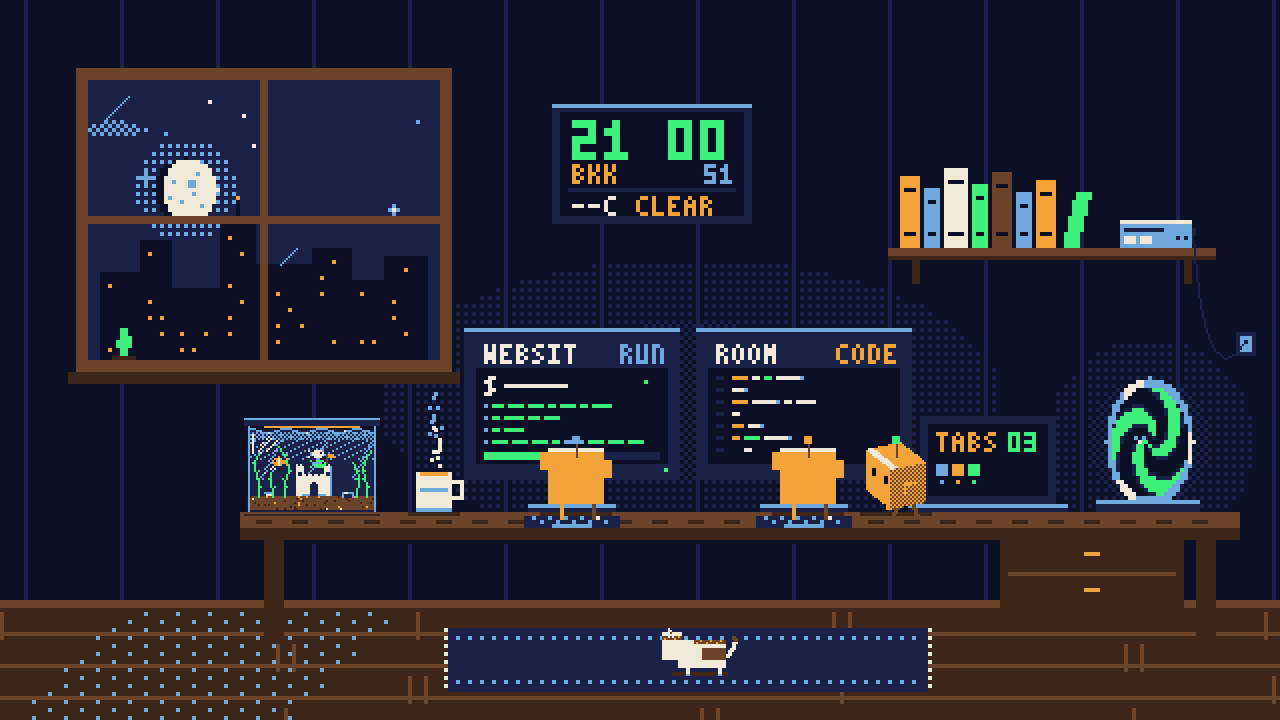
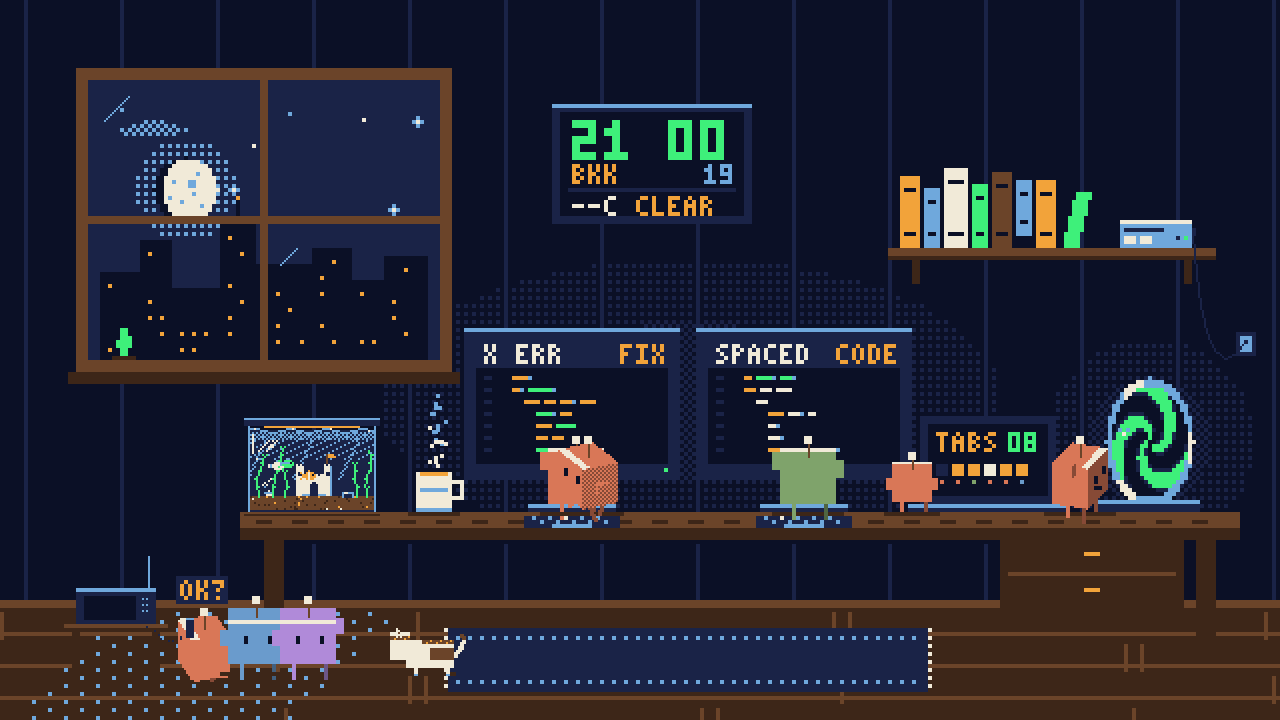
Model colours, the intercom, and tracker fixes
Room:
- Agents are coloured by model (Opus orange, Sonnet blue, Haiku green,
  Fable purple, others grey), with darker shaded sides
- New intercom by the window: a session that needs approval or asks a
  question sends its Claude there to sit with the handset and ask
  "OK?"; the beacon flashes, the screen shows ASK, others queue, and
  tapping it shows the question
- Agent/Task calls send the Claude to the portal to call its helper
- App window opens at 720x620: the room on top, the sessions below

Tracker:
- AskUserQuestion and ExitPlanMode mark a session as waiting at once
- The first question shows as the step ("Asking you a question: ...")
- Steps of a waiting session read in the present tense
- Transcript lines with spaced JSON are no longer skipped
- Room for 8 sessions instead of 6

Claude-Session: https://claude.ai/code/session_01AjpQfDJWPH5b9NssVJhddf

diff --git a/workspace.html b/workspace.html
@@ -173,7 +173,6 @@ function shortName(str, max) {
 const TILT = 0.4; // the camera looks a little down, so top faces show
 const LIGHT = [-0.3, 0.8, 0.5].map(v => v / Math.hypot(0.3, 0.8, 0.5));
 const MAT = {
-  claude: { spark: C.amber, lit: C.amber, dark: C.oak },
   cat:    { spark: C.white, lit: C.white, dark: C.blue, soft: true } // fur: sparse shading, not a checkerboard
 };
 
@@ -299,6 +298,7 @@ const TANK = { x: 62, y: 104, w: 32, h: 24 };
 const CUP_X = 104;
 const SHELF_SPOT = 226, LAPTOP_SPOT = 270; // stand beside the laptop so TABS stays visible
 const MAX_AGENTS = 8;
+const COMM = { x: 16, spot: 50 }; // intercom table on the floor under the window, and where callers stand
 const monitors = [{ x: 116, agent: null }, { x: 174, agent: null }];
 
 const stars = [[30, 27], [41, 33], [52, 25], [63, 36], [72, 28], [36, 44], [98, 52], [58, 47], [104, 30]]
@@ -589,15 +589,17 @@ function updateCat(dt, t) {
 
 const agents = [];
 
-// Model colour from /state mapped onto the palette, worn as the antenna tip
-function badgeFor(colour) {
-  const c = String(colour).toLowerCase();
-  return c === '#d97757' ? C.amber : c === '#6a9bcc' ? C.blue : c === '#7fa36b' ? C.green : C.white;
+// Body colour by model, straight from /state: Opus orange, Sonnet blue, Haiku green, Fable purple,
+// other models grey. The shaded sides use the same colour, darker.
+function modelMat(colour) {
+  const lit = /^#[0-9a-f]{6}$/i.test(colour || '') ? colour : '#D97757';
+  const n = parseInt(lit.slice(1), 16), ch = k => Math.round(((n >> k) & 255) * 0.62);
+  return { spark: lit, lit, dark: `rgb(${ch(16)},${ch(8)},${ch(0)})` };
 }
 
 function spawnAgent(info) {
   const a = {
-    id: info.id, info, helper: !!info.parent, badge: badgeFor(info.colour), code: makeCode(hashText(info.id)),
+    id: info.id, info, helper: !!info.parent, mat: modelMat(info.colour), code: makeCode(hashText(info.id)),
     x: PORTAL.x, y: 0, vx: 0, vy: 0, level: 'desk', seat: false, squash: 0, scale: 0.1,
     action: 'spawn', timer: Infinity, target: PORTAL.x, face: -1, hops: 0, happy: 0, yaw: 0, idleYaw: 0, spin: 0,
     activity: '', task: null, taskTime: 0, monitor: null, arrived: false, moving: false, sub: 0, after: null, buddy: null
@@ -671,6 +673,7 @@ const KIND = tool =>
   : /^(Bash|PowerShell)$/.test(tool) ? 'run'
   : /^(Read|Grep|Glob)$/.test(tool) ? 'read'
   : /Web|Browser|chrome/.test(tool) ? 'web'
+  : /^(Agent|Task)$/.test(tool) ? 'summon'
   : 'think';
 
 function activityOf(c) {
@@ -686,9 +689,10 @@ function activityOf(c) {
 
 const AT_COMPUTER = ['code', 'run', 'fix'];
 const FREE_ACTIONS = ['sit', 'walk', 'hop', 'dance', 'look', 'gaze', 'fish', 'cat', 'tea', 'stretch', 'book', 'highfive', 'sleep', 'think'];
-const DESK_ONLY = ['sit', 'sleep', 'gaze', 'fish', 'tea', 'book', 'work', 'busy', 'read', 'browse', 'leave', 'highfive'];
+const DESK_ONLY = ['sit', 'sleep', 'gaze', 'fish', 'tea', 'book', 'work', 'busy', 'read', 'browse', 'summon', 'leave', 'highfive'];
 
 function applyState(a, c) {
+  if (c.colour !== a.info.colour) a.mat = modelMat(c.colour); // the model can change mid-session
   a.info = c;
   const act = activityOf(c);
   if (act === a.activity) return;
@@ -707,6 +711,7 @@ function plan(a) {
     case 'done':  return startAction(a, a.monitor ? 'work' : freeMood(a));
     case 'read':  return startAction(a, 'read');
     case 'web':   return startAction(a, 'browse');
+    case 'summon': return startAction(a, 'summon');
     case 'wait':  return startAction(a, 'wait');
     case 'off':   return startAction(a, 'sleep');
     default:      return startAction(a, 'think');
@@ -761,13 +766,18 @@ function startAction(a, name) {
     case 'busy':    a.target = rand(66, 112); a.timer = Infinity; break; // waits by the tank for a free computer
     case 'read':    a.target = SHELF_SPOT + rand(-3, 3); a.timer = Infinity; break;
     case 'browse':  a.target = LAPTOP_SPOT; a.timer = Infinity; break;
+    case 'summon':  a.target = PORTAL.x - 18; a.timer = Infinity; break; // calls its helper in through the portal
     case 'think':   a.target = rand(lo, hi); a.timer = rand(3, 6); break;
-    case 'wait':    a.timer = Infinity; break;
+    case 'wait':    setLevel(a, 'floor'); a.waitSince = now; a.timer = Infinity; break; // off to the intercom
     case 'leave':   release(a); a.target = PORTAL.x; a.timer = Infinity; break;
     case 'alarm':   pop('!', a.x - 1, bottomOf(a) - 18, C.amber); if (grounded(a)) jump(a, -70); a.timer = 2; break;
     default:        a.timer = 2;
   }
 }
+
+// Agents waiting for the user, in the order they arrived; the first one is on the intercom
+const callQueue = () => agents.filter(a => a.action === 'wait').sort((p, q) => p.waitSince - q.waitSince);
+const onCall = a => a.action === 'wait' && a.arrived && callQueue()[0] === a;
 
 function nextAction(a) {
   // free-time actions run out and pick another; the rest re-plan from the session state
@@ -827,10 +837,20 @@ function updateAgent(a, dt, t) {
     case 'think':
       a.arrived = walkTo(a, a.target, 8, dt);
       break;
-    case 'wait':
-      a.arrived = true;
-      if (ready && Math.random() < dt * 0.3) jump(a, -40);
+    case 'summon':
+      if (walkTo(a, a.target, 22, dt)) {
+        a.arrived = true;
+        a.happy = Math.max(a.happy, 0.3); // waves its helper in
+        if (Math.random() < dt * 0.8) world.portalFlare = 0.4;
+      }
       break;
+    case 'wait': {
+      // the first in line takes the handset; the others queue beside the intercom
+      if (a.level !== 'floor') break;
+      a.arrived = walkTo(a, COMM.spot + callQueue().indexOf(a) * 16, 30, dt); // hurries: you are needed
+      if (a.arrived && !onCall(a) && ready && Math.random() < dt * 0.3) jump(a, -40);
+      break;
+    }
     case 'fish':
       if (!walkTo(a, a.target, 14, dt)) break;
       a.arrived = true;
@@ -894,6 +914,7 @@ function yawTarget(a, t) {
     case 'work': case 'fish': case 'leave': case 'read': case 'book':
       return a.arrived ? Math.PI : walking;
     case 'browse': return a.arrived ? -1.3 : walking; // turned toward the laptop
+    case 'summon': return a.arrived ? 1.2 : walking;  // facing the portal
     case 'busy':  return 0.4;
     case 'tea':   return a.arrived ? 1.2 : walking;
     case 'gaze':  return a.arrived ? -2.6 : walking; // back to us, looking out of the window
@@ -902,7 +923,8 @@ function yawTarget(a, t) {
     case 'think': return Math.sin(t * 0.8 + a.x) * 0.6;
     case 'look':  return Math.sin(t * 1.6 + a.x) * 1.2;
     case 'sleep': return 0.35;
-    case 'wait': case 'alarm': case 'spawn': return 0;
+    case 'wait':  return onCall(a) ? -1.3 : 0; // on call: turned to the intercom
+    case 'alarm': case 'spawn': return 0;
     default:      return a.idleYaw;
   }
 }
@@ -1002,6 +1024,7 @@ function drawLights(t, s) {
   glow(C.navy, 172, 100, 78, 36);                                                     // monitor glow
   glow(world.portalFlare > 0 ? C.green : C.navy, PORTAL.x, PORTAL.y, 26, 26, 0.35); // portal glow
   if (lightning()) glow(C.blue, 66, 110, 80, 60, 0.6);
+  if (callQueue().some(a => a.arrived) && Math.floor(t * 4) % 2) glow(C.amber, COMM.x + 21, 140, 14, 10, 0); // intercom beacon
   // Sunlight or moonlight on the floor, dimmer at twilight, under clouds or a thin moon, gone in rain
   if (wet()) return;
   const weak = s.twilight || dull() || bodyCovered(t, s) || (!s.day && moonLight() < 0.3);
@@ -1332,7 +1355,7 @@ function drawLaptop(t) {
   agents.slice(0, 6).forEach((a, i) => {
     const blink = a.activity === 'wait' && Math.floor(t * 3) % 2;
     rect(blink ? C.night : tone[a.activity] || C.navy, x + 4 + i * 4, y + 12, 3, 3);
-    px(a.badge, x + 5 + i * 4, y + 16);
+    px(a.mat.lit, x + 5 + i * 4, y + 16);
   });
 }
 
@@ -1529,14 +1552,15 @@ function catEar([x, y], right) {
   frect(C.white, fx + s, fy - 3);
 }
 
-// Claude agents: little amber 3D blocks with an antenna in their model's colour
+// Claude agents: little 3D blocks in their model's colour, with an antenna
 function drawAgent(a, t) {
   const s = a.scale, air = a.y < -0.5, yaw = a.yaw;
   const crouch = !air && a.squash > 0;
   const [w, h, d] = (crouch ? [16, 8, 11] : air ? [12, 11, 9] : [14, 10, 10]).map(v => v * s);
   const walking = a.moving && !air;
   const bob = walking && Math.floor(t * 8) % 2 ? 1 : 0;
-  const feet = { x: Math.round(a.x), y: bottomOf(a) }, o = { x: feet.x, y: feet.y - bob };
+  const squat = onCall(a) ? 3 : 0; // sits on the floor while on the intercom
+  const feet = { x: Math.round(a.x), y: bottomOf(a) + squat }, o = { x: feet.x, y: feet.y - bob };
   const typing = a.action === 'work' && a.arrived && a.task && a.task !== 'done';
   const petting = a.action === 'cat' && a.arrived;
 
@@ -1554,19 +1578,20 @@ function drawAgent(a, t) {
     const phase = i === 0 || i === 3 ? 0 : Math.PI;
     let len = 4, dz = 0, lift = 0;
     if (air) len = 3;
+    else if (squat) { len = 1; dz = 2; }
     else if (a.seat) { len = 5; dz = Math.sin(t * (a.action === 'sleep' ? 1.5 : 5) + phase) * 2.5; }
     else if (walking) { dz = Math.sin(t * 12 + phase) * 1.5; lift = Math.max(0, Math.sin(t * 12 + phase)); }
     len *= s;
     const top = toScreen(feet, rotY([lx, 0, lz], yaw)), foot = toScreen(feet, rotY([lx, -len + lift, lz + dz], yaw));
-    parts.push({ z: depth([lx, 0, lz], yaw) - 10, draw: () => line(rotY([lx, 0, lz], yaw)[0] > 0 ? C.oak : C.amber, ...top, ...foot, R) });
+    parts.push({ z: depth([lx, 0, lz], yaw) - 10, draw: () => line(rotY([lx, 0, lz], yaw)[0] > 0 ? a.mat.dark : a.mat.lit, ...top, ...foot, R) });
   });
 
   // Body, antenna and face
   parts.push({ z: 0, draw: () => {
-    box(o, yaw, [0, 0, 0], [w, h, d], MAT.claude, rimLight);
+    box(o, yaw, [0, 0, 0], [w, h, d], a.mat, rimLight);
     const [bx, by] = toScreen(o, rotY([0, h, 0], yaw));
     line(C.oak, bx, by, bx, by - 3 * s);
-    rect(a.badge, bx - 1, by - 3 * s - 2, 2, 2);
+    rect(C.white, bx - 1, by - 3 * s - 2, 2, 2);
     if (rotY([0, 0, 1], yaw)[2] < 0.3 || s < 0.5) return; // facing away: no face to see
     const eye = ex => toScreen(o, rotY([ex, h - 3 * s, d / 2], yaw));
     const sleepy = a.action === 'sleep', blink = (t + a.x) % 4 < 0.12;
@@ -1583,22 +1608,70 @@ function drawAgent(a, t) {
   const near = rotY([1, 0, 0], yaw)[2] > 0 ? 1 : -1;
   for (const side of [-1, 1]) {
     let ay = 3, az = 0;
-    if ((a.action === 'wait' || a.happy > 0 || petting) && side === near) ay = 8 + (Math.floor(t * 8) % 2);
+    if ((a.happy > 0 || petting) && side === near) ay = 8 + (Math.floor(t * 8) % 2);
+    if (a.action === 'wait' && side === near) ay = onCall(a) ? 8 : 6 + (Math.floor(t * 3) % 2) * 3;
     if (a.action === 'dance' && (side > 0) === !!beat) ay = 9;
     if (a.action === 'stretch') ay = 10;
     if (typing) { ay = 4 + ((Math.floor(t * 10) + (side > 0 ? 1 : 0)) % 2) * 2; az = 3; }
     const pos = [side * (w / 2 + s), ay * s, az * s];
-    parts.push({ z: depth(pos, yaw), draw: () => box(o, yaw, pos, [2 * s, 3 * s, 3 * s], MAT.claude) });
+    parts.push({ z: depth(pos, yaw), draw: () => box(o, yaw, pos, [2 * s, 3 * s, 3 * s], a.mat) });
   }
   parts.sort((p, q) => p.z - q.z).forEach(p => p.draw());
 
   // Status bubble: "!" when it needs you, "..." when thinking, "<>" or "$" while waiting for a free computer
   const top = toScreen(o, rotY([0, h, 0], yaw))[1] - 10 * s;
-  if (a.action === 'wait' && Math.floor(t * 2) % 2) text(C.amber, '!', feet.x - 1, top - 2);
+  if (onCall(a)) {
+    drawHandset(a, o, yaw, w, h, s);
+    const word = Math.floor(t / 1.2) % 2 ? 'OK?' : '?';
+    rect(C.navy, feet.x - word.length * 2 - 1, top - 3, word.length * 4 + 1, 7);
+    text(C.amber, word, feet.x - word.length * 2, top - 2);
+  } else if (a.action === 'wait' && Math.floor(t * 2) % 2) text(C.amber, '!', feet.x - 1, top - 2);
   if (a.action === 'think' || a.action === 'busy') {
     const word = a.action === 'busy' ? (a.activity === 'run' ? '$' : '<>') : '.'.repeat(1 + Math.floor(t * 2) % 3);
     text(a.action === 'busy' ? C.amber : C.white, word, feet.x - word.length * 2, top - 2);
   }
+}
+
+// The intercom: a little side table with a phone set, a screen and an antenna light.
+// It lights up and shows ASK when a session needs your approval or has a question.
+function drawComm(t) {
+  const x = COMM.x, calling = callQueue().some(a => a.arrived);
+  rect(C.wood, x, 156, 26, 2);
+  rect(C.oak, x, 156, 26, 1);
+  rect(C.wood, x + 2, 158, 2, 10);
+  rect(C.wood, x + 22, 158, 2, 10);
+  rect(C.wood, x + 2, 166, 22, 1);
+
+  rect(C.navy, x + 3, 147, 20, 9);
+  rect(C.blue, x + 3, 147, 20, 1);
+  rect(C.night, x + 5, 149, 13, 6);
+  if (calling) { if (Math.floor(t * 3) % 2) text(C.amber, 'ASK', x + 6, 150); }
+  else { text(C.green, 'OK', x + 6, 150); }
+  for (let k = 0; k < 3; k++) for (let j = 0; j < 2; j++) dot(C.blue, x + 19.5 + j, 149.5 + k * 1.5); // speaker grille
+
+  // handset resting on its cradle unless someone is using it
+  if (!callQueue().some(onCall)) {
+    rect(C.navy, x + 5, 144.5, 14, 2.5);
+    rect(C.blue, x + 5, 144.5, 14, 0.5);
+    rect(C.navy, x + 4, 145.5, 2, 2);
+    rect(C.navy, x + 18, 145.5, 2, 2);
+  }
+  // antenna with a beacon: slow green when all is well, fast amber when someone is asking
+  line(C.blue, x + 21, 147, x + 21, 139);
+  const on = calling ? Math.floor(t * 4) % 2 : Math.sin(t * 2) > 0.3;
+  if (on) rect(calling ? C.amber : C.green, x + 20.5, 137.5, 1.5, 1.5);
+}
+
+// The caller holds the handset to its head; a curly cord runs back to the intercom
+function drawHandset(a, o, yaw, w, h, s) {
+  const [hx, hy] = toScreen(o, rotY([-(w / 2 + 2 * s), h - 2 * s, 1], yaw));
+  const jack = [COMM.x + 19, 154];
+  for (let i = 0; i <= 12; i++) {
+    const k = i / 12, sag = Math.sin(k * Math.PI) * 4;
+    dot(C.navy, jack[0] + (hx - jack[0]) * k + Math.sin(i * 2.3) * 0.5, jack[1] + (hy + 2 - jack[1]) * k + sag);
+  }
+  rect(C.navy, hx - 1, hy - 1, 2, 5);
+  rect(C.blue, hx - 1, hy - 1, 2, 0.5);
 }
 
 function drawPops() {
@@ -1649,6 +1722,7 @@ function draw(t) {
   drawTank(t);
   drawCup();
   for (const a of agents) if (a.level === 'desk') drawAgent(a, t);
+  drawComm(t);
   drawCat(t);
   for (const a of agents) if (a.level === 'floor') drawAgent(a, t);
   drawPops();
@@ -1709,6 +1783,7 @@ canvas.addEventListener('pointerdown', e => {
     a.spin = 2 * Math.PI;
     if (FREE_ACTIONS.includes(a.action)) startAction(a, pick(['hop', 'dance', 'stretch']));
   }
+  else if (hit(COMM.x, 136, COMM.x + 26, 168)) { const caller = callQueue()[0]; if (caller) showCard(caller, e); }
   else if (Math.abs(x - cat.x) < 9 && y > 152 && y < 171) { if (cat.action === 'sleep') pop('!', cat.x - 1, 146, C.amber); petCat(); }
   else if (hit(TANK.x - 1, TANK.y, TANK.x + TANK.w, TANK.y + TANK.h)) { feedFish(); tapTank(x); }
   else if (hit(PORTAL.x - PORTAL.rx, PORTAL.y - PORTAL.ry, PORTAL.x + PORTAL.rx, PORTAL.y + PORTAL.ry)) world.portalFlare = 1;

diff --git a/tracker.py b/tracker.py
@@ -20,7 +20,7 @@ ERROR_LOG = os.path.join(HERE, 'office-error.log')
 ACTIVE_SECS = 30 * 60   # a session gets a Claude while its transcript changed in the last 30 min
 DAY = 36 * 3600         # only transcripts changed this recently are read
 WAIT_SECS = 45          # one step running this long: Claude may be waiting for you
-MAX_PETS = 6
+MAX_PETS = 8          # the room has space for eight Claudes
 MAX_HELPERS = 6
 
 BG = '#1f1e1d'
@@ -47,6 +47,7 @@ TOOL_WORDS = {
     'WebSearch': 'Searching the web', 'WebFetch': 'Reading a web page',
     'SubagentHandback': 'Reporting back', 'ToolSearch': 'Loading tools', 'Skill': 'Using a skill',
     'Agent': 'Calling a helper', 'Task': 'Calling a helper', 'Artifact': 'Publishing a page',
+    'AskUserQuestion': 'Asking you a question', 'ExitPlanMode': 'Waiting for you to approve a plan',
 }
 PAST_WORDS = {
     'Bash': 'Ran a command', 'PowerShell': 'Ran a command',
@@ -55,6 +56,7 @@ PAST_WORDS = {
     'WebSearch': 'Searched the web', 'WebFetch': 'Read a web page',
     'Agent': 'Called a helper', 'Task': 'Called a helper', 'Artifact': 'Published a page',
     'SubagentHandback': 'Reported back', 'ToolSearch': 'Loaded tools', 'Skill': 'Used a skill',
+    'AskUserQuestion': 'Asked you', 'ExitPlanMode': 'Shared a plan',
 }
 NO_COLON = ('Edit', 'Write', 'NotebookEdit', 'Read')  # 'Edited app.js', not 'Edited: app.js'
 KINDS = {
@@ -62,6 +64,10 @@ KINDS = {
     'Read': 'Reads', 'Grep': 'Searches', 'Glob': 'Searches', 'WebSearch': 'Web', 'WebFetch': 'Web',
     'Agent': 'Helpers', 'Task': 'Helpers',
 }
+# tools that stop and wait for you to answer, so the session needs you straight away
+ASK_TOOLS = ('AskUserQuestion', 'ExitPlanMode')
+# a transcript line worth parsing: a user or assistant message, compact or spaced JSON
+MESSAGE_LINE = re.compile(rb'"type"\s*:\s*"(?:user|assistant)"')
 # helpers
 
 def tool_word(name):
@@ -114,6 +120,8 @@ def describe(name, inp):
         target = os.path.basename(str(path).rstrip('/\\'))
     elif inp.get('description'):
         target = inp['description']
+    elif isinstance(inp.get('questions'), list) and inp['questions'] and isinstance(inp['questions'][0], dict):
+        target = inp['questions'][0].get('question') or ''  # AskUserQuestion: the first question
     elif inp.get('pattern'):
         target = inp['pattern']
     elif inp.get('query'):
@@ -225,7 +233,7 @@ class Session:
                 for tid, status in re.findall(rb'<tool-use-id>([^<]+)</tool-use-id>.*?<status>([a-z]+)</status>', line):
                     if status != b'running':
                         self.done_ids.add(tid.decode())
-            if b'"type":"user"' not in line and b'"type":"assistant"' not in line:
+            if not MESSAGE_LINE.search(line):
                 continue
             try:
                 d = json.loads(line)
@@ -311,6 +319,8 @@ class Session:
             tools = [x for x in items if x.get('type') == 'tool_use']
             if tools:
                 name = tools[-1].get('name', '')
+                if name in ASK_TOOLS:  # a question or a plan to approve: it needs you now
+                    return 'waiting', name
                 # waiting on its own helper is normal work, not waiting for you
                 busy_helper = name in ('Agent', 'Task') or now - self.helper_mtime < 30
                 return ('waiting' if age > WAIT_SECS and not busy_helper else 'working'), name

diff --git a/claude-office.py b/claude-office.py
@@ -36,7 +36,7 @@ def state(tracker):
             step = ''
             if s.recent:
                 ts, tname, target = s.recent[-1]
-                step = pet.step_text(tname, target, st == 'working')
+                step = pet.step_text(tname, target, st in ('working', 'waiting'))  # still open while it waits
             out.append({
                 'id': s.path,
                 'parent': s.parent.path if s.parent else '',

diff --git a/README.md b/README.md
@@ -15,15 +15,20 @@ Works on **Windows, macOS and Linux**. It needs only Python 3.8+, with no packag
 
 ## Features
 
-- **One agent per session.** Each Claude wears an antenna in its model's colour: Opus amber,
-  Sonnet blue, Haiku green, others white. Helpers (subagents) are smaller Claudes.
+- **One agent per session, in its model's colour:** Opus orange, Sonnet blue, Haiku green, Fable
+  purple, other models grey. Helpers (subagents) are smaller Claudes in their session's colour, and
+  their session goes to the portal to call them in.
 - **Two computers** show what the agent at them is doing: `CODE` (Edit, Write) with code being
   typed, `RUN` (Bash) with a terminal and a progress bar, `FIX` after an error, and `DONE` when the
   task is finished. The title bar shows the project. When both are taken, the next agent waits by
   the tank with `<>` or `$` until one is free.
+- **The intercom:** when a session needs your approval or asks you a question, its Claude goes to
+  the intercom by the window, sits down with the handset and asks "OK?". The beacon flashes and the
+  screen shows `ASK`; others who need you queue beside it. Tap the intercom to see what it is
+  asking. Questions (`AskUserQuestion`) and plans to approve (`ExitPlanMode`) count straight away;
+  any other step counts after it has waited 45 seconds.
 - **The rest of the room:** reading files sends an agent to the bookshelf, web tools to the
-  laptop, thinking shows `...`, and "may need you" shows a blinking `!` and a wave. Idle sessions
-  sleep on the edge of the desk.
+  laptop and thinking shows `...`. Idle sessions sleep on the edge of the desk.
 - **The laptop** counts the open tabs (sessions), with a dot for what each one is doing.
 - **Free time** after a task: feed or tap the fish tank, pet the cat, sip tea, read a book,
   watch the sky (more often when it rains), stretch, dance or high-five another free agent.

diff --git a/SKILL.md b/SKILL.md
@@ -9,7 +9,8 @@ A pixel room shown in the Claude desktop app's built-in browser panel, where eve
 Code session is a little 3D Claude agent. Agents arrive through a portal when a session starts and
 leave through it when it ends. They use the two computers to write code (CODE) and run commands
 (RUN), show FIX after an error and DONE when finished, read at the bookshelf, browse on the laptop,
-wait with "!" when they need the user and sleep on the desk when idle. In free time they feed the
+go to the intercom to ask the user when they need approval or have a question, and sleep on the
+desk when idle. In free time they feed the
 fish, pet the cat, sip tea, read, watch the sky or high-five each other. The laptop counts the open
 tabs (sessions). The clock and the window follow Bangkok time and weather. In a tall panel the
 sessions are listed under the room.
